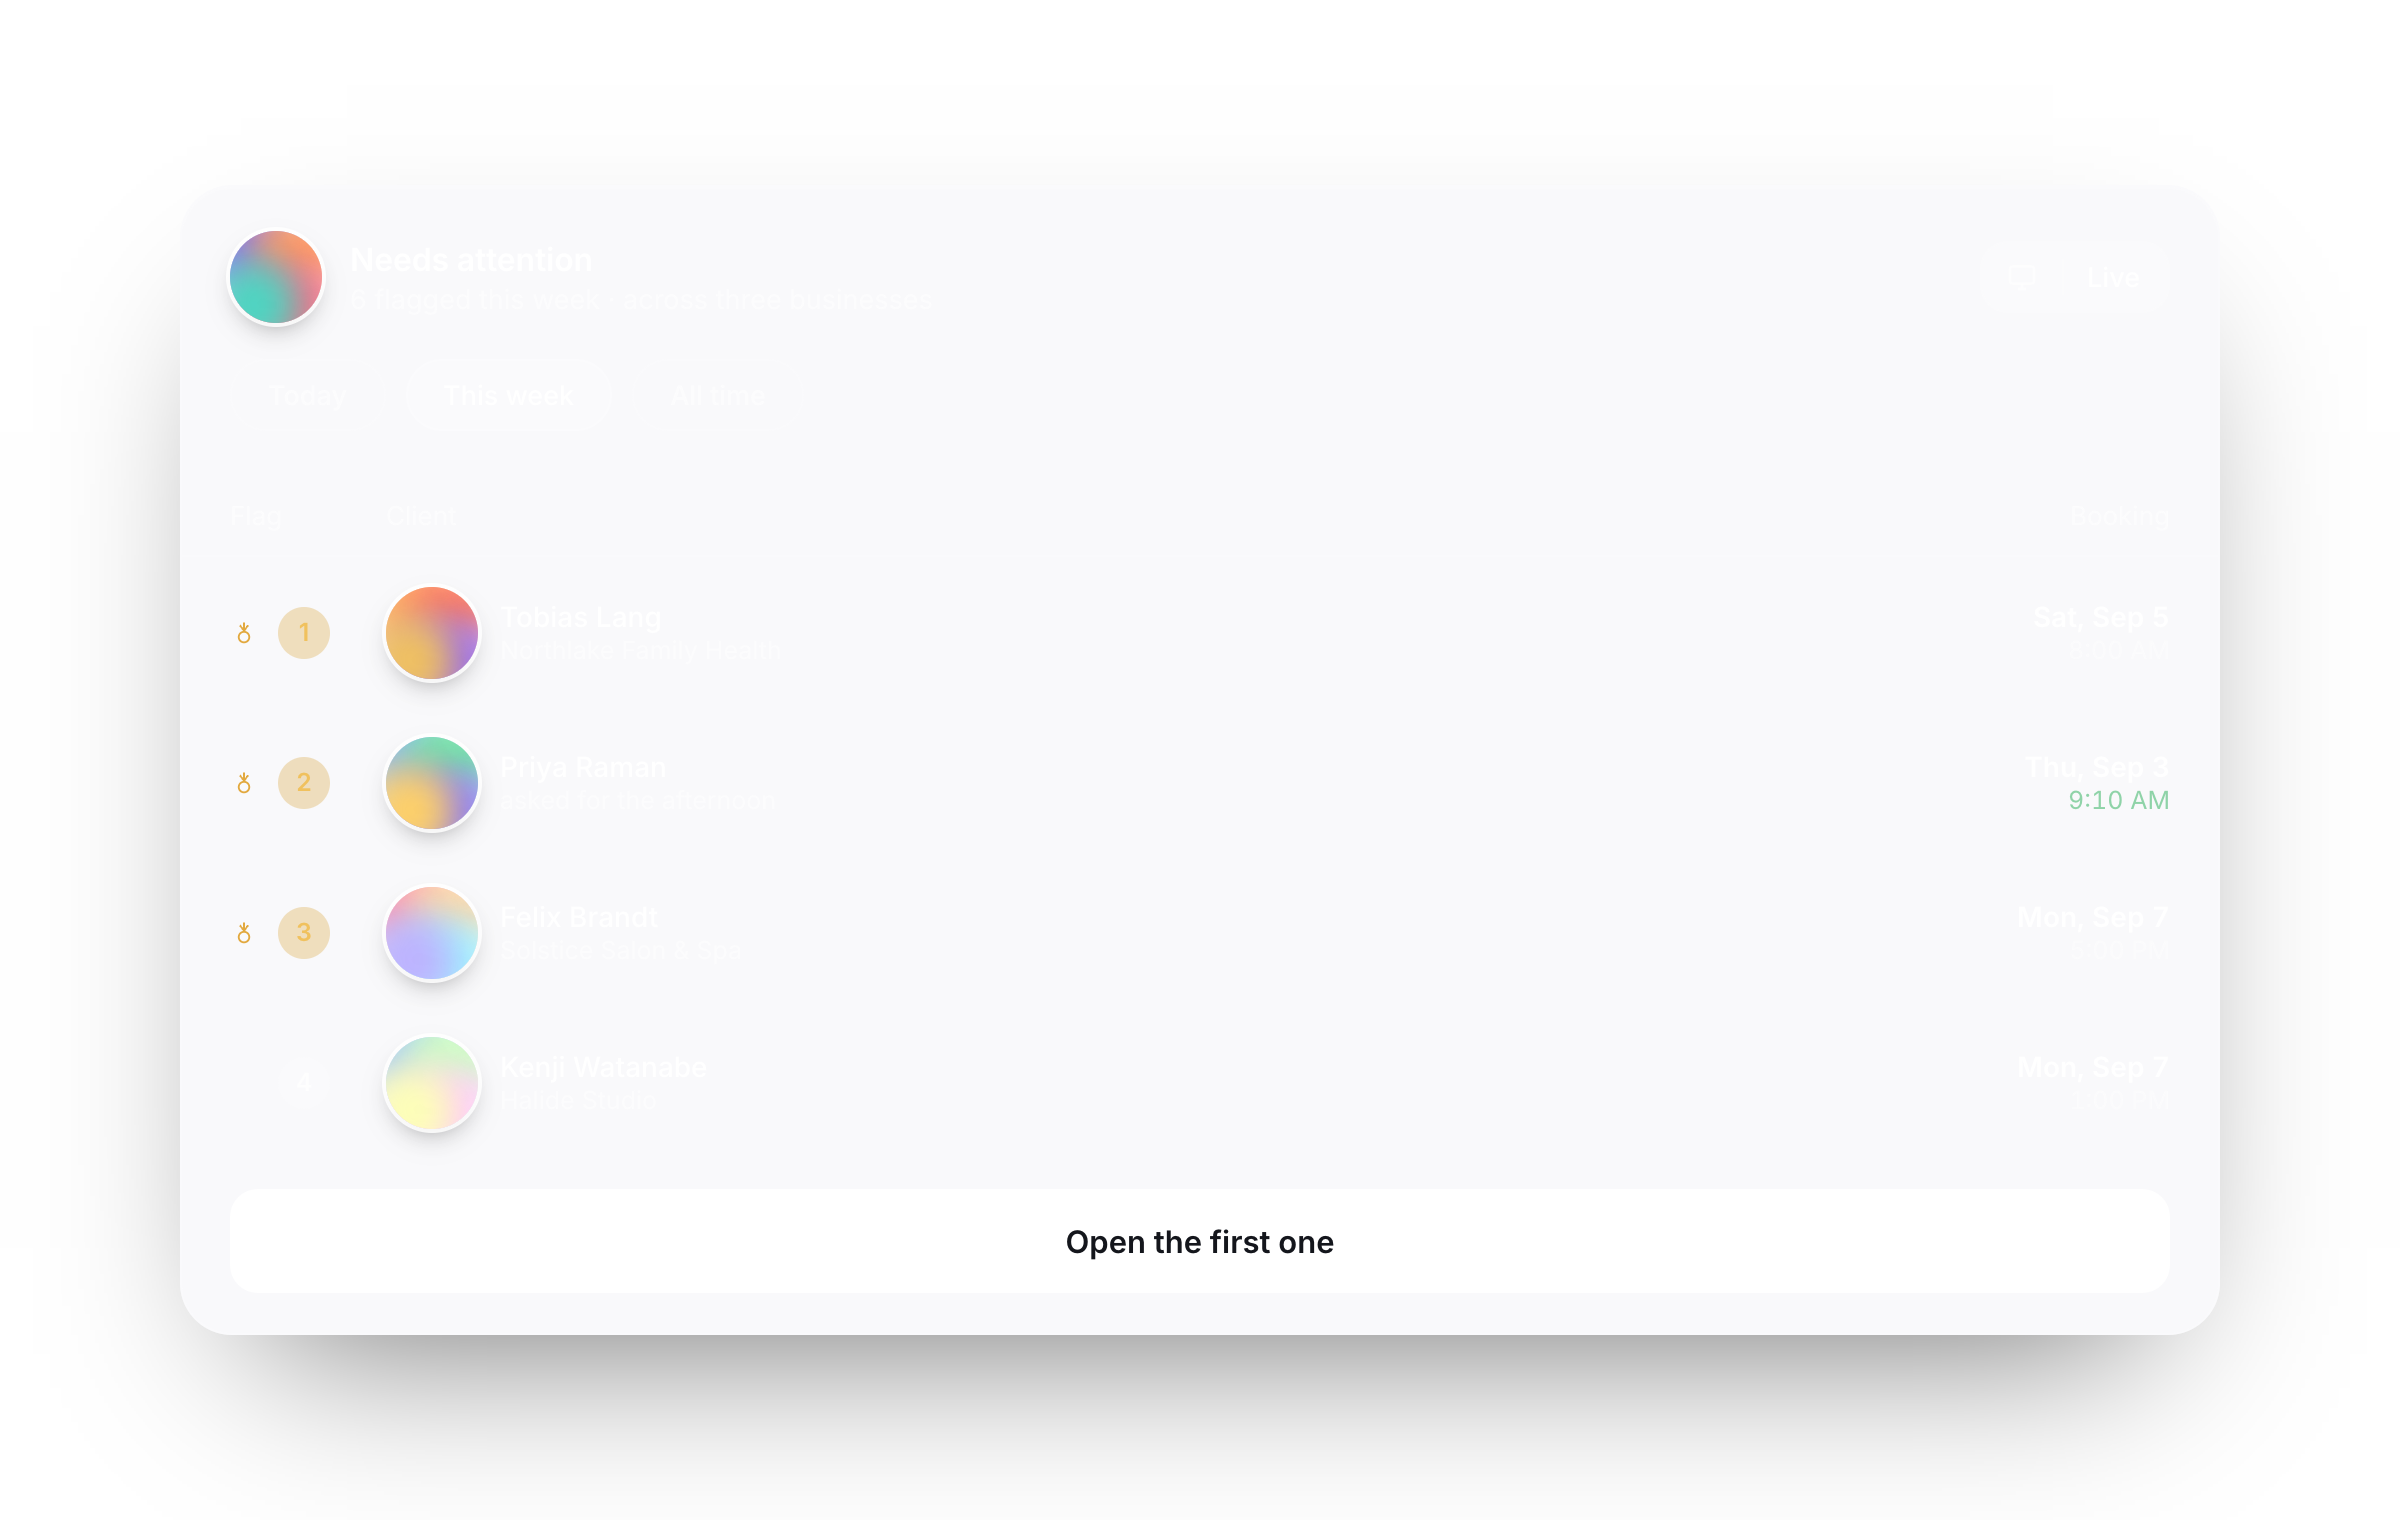
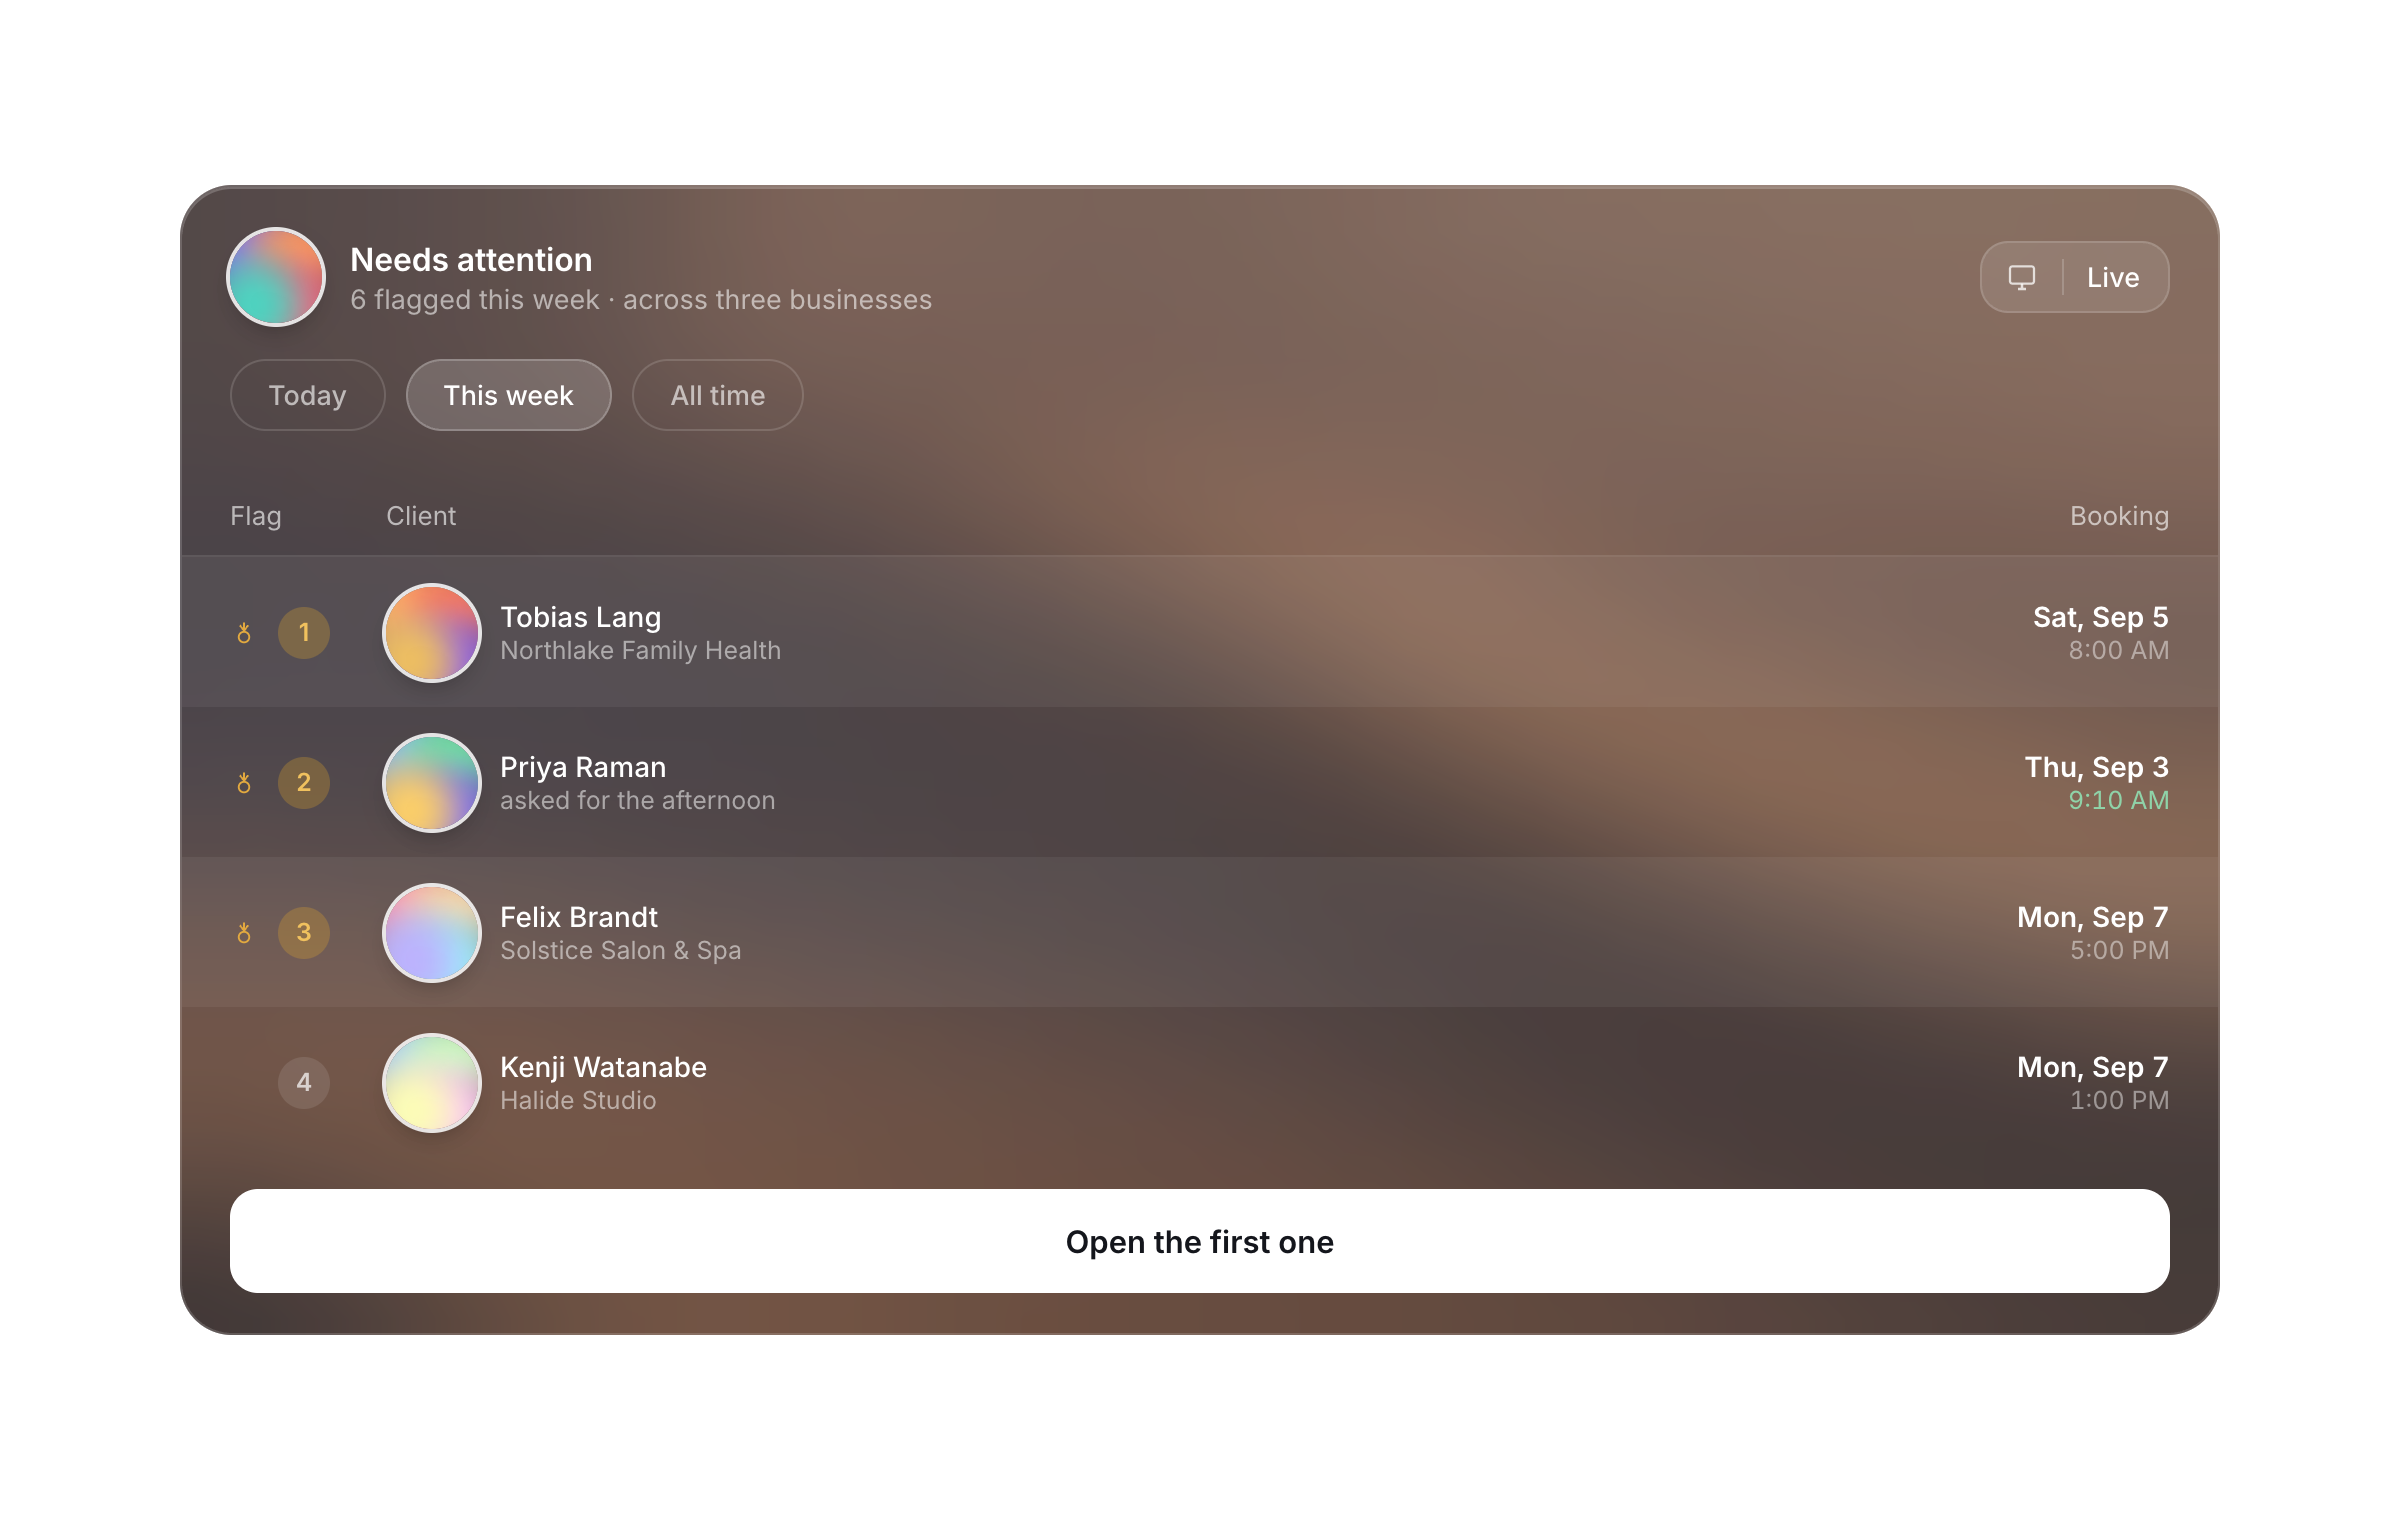
Proof deck: sharp desert, frost only in the glass, parallax across the whole act
The ground is the unblurred scene; the panel layer is the scene clipped
to the panel's rounded rect so its 44px backdrop blur is baked and the
rest is transparent. Both ride --sc-p for the full scroll (panel 100px,
ground 36px the other way) so the float is visible while a card sits still.

diff --git a/src/app/(marketing)/receptionist.css b/src/app/(marketing)/receptionist.css
@@ -235,16 +235,19 @@
   background-image: var(--shot); background-size: cover; background-position: center;
   filter: blur(28px) saturate(120%); transform: scale(1.12); }
 /* Two layers in one frame: the blurred desert at the back, the glass panel (an
-   alpha PNG) in front. As the card rises (--t) and is then covered (--tn), the
-   panel travels a little further than the ground, so it reads as floating over
-   the scene rather than printed on it. Small on purpose: depth, not jitter. */
+   alpha PNG) in front. Both ride the act's own progress (--sc-p, inherited from
+   the pinned section) for the whole scroll, not just the card's flight: the
+   panel climbs about 100px from the deck's start to its end, the ground sinks
+   about 36px, so while a card sits still under the reader's scroll the panel
+   visibly floats over the scene. The ground carries a little scale so its edges
+   never show. */
 .rc-card__media picture { position: relative; display: block; min-width: 0; min-height: 0; grid-area: 1 / 1; overflow: hidden; border-radius: 24px; }
 .rc-card__media img { position: relative; display: block; width: 100%; height: 100%; min-width: 0; min-height: 0; object-fit: cover; object-position: 50% 50%; border-radius: 24px; }
-.rc-card__bg img { transform: translate3d(0, calc((1 - var(--t)) * -8px + var(--tn) * 4px), 0) scale(1.06); will-change: transform; }
+.rc-card__bg img { transform: translate3d(0, calc((var(--sc-p) - 0.5) * 36px), 0) scale(1.1); will-change: transform; }
 .rc-card__panel { z-index: 1; }
-.rc-card__panel img { transform: translate3d(0, calc((1 - var(--t)) * 22px - var(--tn) * 10px), 0); will-change: transform; }
+.rc-card__panel img { transform: translate3d(0, calc((0.5 - var(--sc-p)) * 100px), 0); will-change: transform; }
 @media (prefers-reduced-motion: reduce) { .rc-card__bg img, .rc-card__panel img { transform: none; } }
-@media (max-width: 1024px) { .rc-card__bg img { transform: translate3d(0, calc((1 - var(--t)) * -5px + var(--tn) * 3px), 0) scale(1.05); } .rc-card__panel img { transform: translate3d(0, calc((1 - var(--t)) * 14px - var(--tn) * 6px), 0); } }
+@media (max-width: 1024px) { .rc-card__bg img { transform: translate3d(0, calc((var(--sc-p) - 0.5) * 24px), 0) scale(1.08); } .rc-card__panel img { transform: translate3d(0, calc((0.5 - var(--sc-p)) * 64px), 0); } }
 
 @media (max-width: 1024px) {
   .rc-deckact { --deck-pad: 5svh; --head-h: clamp(96px, 14svh, 140px); --peek: 64px; --card-w: 94vw; }

diff --git a/scrollcraft/builds/receptionist/ref.py b/scrollcraft/builds/receptionist/ref.py
@@ -383,11 +383,17 @@ elif mode == "stage":
                 .replace(".panel { position:absolute; left:56px; right:56px;", ".panel { position:absolute; left:150px; right:150px;")
                 .replace("background-position:50% 62%", "background-position:50% 58%"))
 
+# The parallax pair. The owner wants the desert sharp and only the glass blurred, so both
+# layers use an unblurred photo: the ground is the scene without the panel; the panel layer is
+# the scene clipped to the panel's rounded rect (render.mjs does the clip), so the frost it
+# carries is the real blur of the photo beneath it, baked, with everything outside transparent.
+SHARP = "filter: saturate(112%) brightness(.72);"
+if layer in ("bg", "panel"):
+    html = html.replace("filter: blur(26px) saturate(115%) brightness(.62);", SHARP)
 if layer == "bg":
     html = html.replace('<div class="panel">', '<div class="panel" style="display:none">')
 elif layer == "panel":
-    html = (html.replace('<div class="photo"></div><div class="vig"></div><div class="grain"></div>', '')
-                .replace("overflow:hidden; background:#15100e;", "overflow:hidden; background:transparent;")
-                .replace(PANES[variant], PANES["T"]))
+    html = (html.replace("overflow:hidden; background:#15100e;", "overflow:hidden; background:transparent;")
+                .replace("backdrop-filter:blur(36px)", "backdrop-filter:blur(44px)"))
 pathlib.Path(sys.argv[1]).write_text(html)
 print("wrote", sys.argv[1])

diff --git a/scrollcraft/builds/receptionist/BRIEF.md b/scrollcraft/builds/receptionist/BRIEF.md
@@ -348,12 +348,12 @@ Full desk $599 / 1,500 calls, with the $1,000 setup flat across all three and 30
 beyond the plan. The dark cards on the paper ground are the proof deck's own treatment, so
 pricing reads as part of the same page rather than a bolted-on table.
 
-Proof deck, 3 Sep: the owner asked for parallax inside the card images. Each image is now two
-layers in the same 24px frame: the blurred desert (`04-bg.jpg`, shared) at the back and the
-glass panel as an alpha PNG (`04-{call,record,flag}-p.png`, pane variant T, a neutral milk at
-.21 standing in for D's backdrop blur since the photo is already blurred) in front. Keyed to the
-card's own --t and --tn: the panel travels 22px on the rise and 10px on the cover, the ground
-8px and 4px the other way with a 1.06 scale so its edges never show; 14/6 and 5/3 under 1024px;
-nothing moves under reduced motion. Rendered by `ref.py … <mode> bg|panel` and
+Proof deck, 3 Sep: the owner asked for parallax inside the card images, with the desert sharp
+and only the glass blurred. Each image is two layers in the same 24px frame: the ground
+(`04-bg.jpg`, shared, the scene without its panel and without the photo blur) and the panel
+(`04-{call,record,flag}-p.png`, the scene clipped to the panel's rounded rect with everything
+outside transparent, so the frost it carries is the real 44px backdrop blur of the sharp photo,
+baked). Both ride the act's --sc-p for the whole scroll: the panel climbs 100px from the deck's
+start to its end, the ground sinks 36px with a 1.1 scale so its edges never show; 64/24 under
+1024px; nothing moves under reduced motion. Rendered by `ref.py … <mode> bg|panel` and
 `render.mjs … png`. Card geometry, fade, shadow and copy untouched.
-

diff --git a/NOW.md b/NOW.md
@@ -4,11 +4,11 @@ Handoff notes for the next session. Updated 2026-09-02.
 
 ## Just done (2026-09-02, evening)
 
-- **Proof deck images now have parallax inside them.** Each card's image is two layers in the
-  same frame: the blurred desert (04-bg.jpg, shared) and the glass panel as an alpha PNG
-  (04-*-p.png), the panel travelling 22px on the rise and 10px on the cover, the ground a
-  little the other way. Keyed to the card's --t/--tn, off under reduced motion, 14/6 under
-  1024px. Rendered with `ref.py … bg|panel` + `render.mjs … png`. Geometry, fade, shadow untouched.
+- **Proof deck images now have parallax inside them.** Each card's image is a sharp desert
+  (04-bg.jpg, shared) behind a frosted glass panel rendered as an alpha PNG with its blur baked
+  (04-*-p.png). Both ride the act's --sc-p across the whole scroll: panel climbs 100px, ground
+  sinks 36px; 64/24 under 1024px; off under reduced motion. Pipeline: `ref.py … bg|panel` +
+  `render.mjs … png` (clips the scene to the panel). Geometry, fade, shadow untouched.
 - **Pricing is three call-volume plans, and the economics are measured.** Front desk $149/200
   calls, Busy desk $299/600 (featured, overlaid on the outer two), Full desk $599/1,500, $1,000
   setup flat, 30c per extra call. Two real calls put voice AI at $0.115/min (prorated) and
